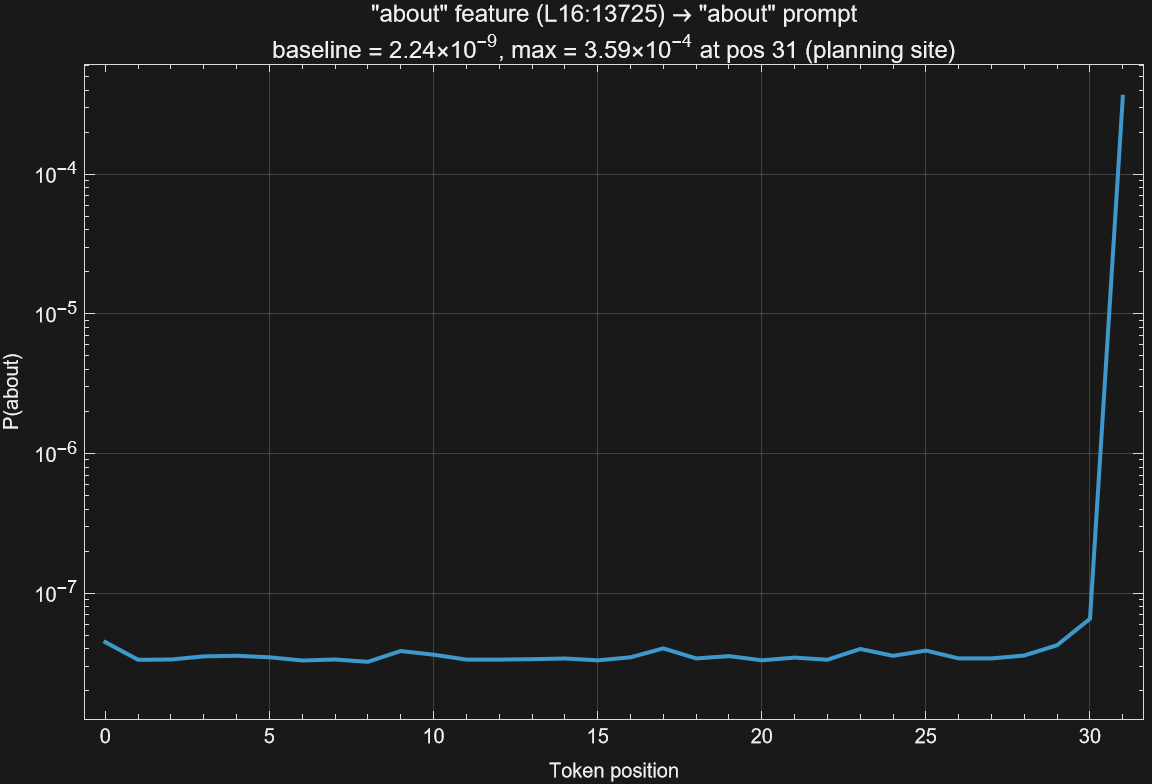
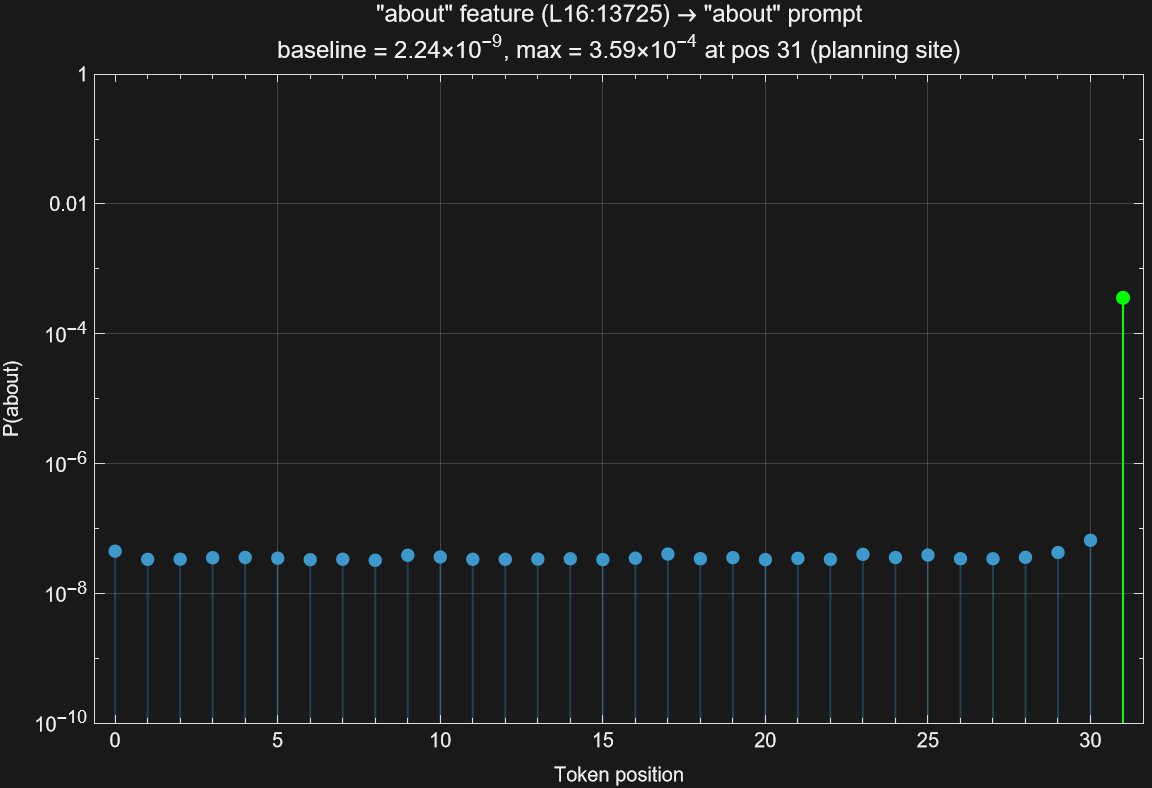
polish: version bump to v1.3.0 and documentation improvements
Bump Cargo.toml 1.2.0 → 1.3.0 with CHANGELOG entry.
README: add author line, etymology subtitle, motivation paragraph,
table of contents, CLT expansion on first use, architectural-property
observation, candle link in acknowledgments.
Docs: fix rendering (collapsed paragraphs), "line plot" → "bar chart",
clarify feature-prompt pair count. Update figures to lollipop plots
with green planning-site bar and shared log-scale range.

diff --git a/docs/planning-in-poems/README.md b/docs/planning-in-poems/README.md
@@ -1,7 +1,34 @@
 # Replicating "Planning in Poems" with Open Tools
 
+*Melomētis (μέλος + μῆτις) — "song's cunning intelligence"*
+
+**Author:** Eric Jacopin
+
+My background is AI Planning — hierarchical task networks, goal decomposition,
+the classical tradition. When Anthropic reported that Claude 3.5 Haiku performs
+internal "planning" during poem generation, the natural question from that field
+is: how far does the analogy go? Can we relate what an LLM does at the newline
+token to anything recognizable as planning in the classical sense? Answering
+that question requires having something reproducible to test. This project
+builds that test bench.
+
+---
+
+**Contents:**
+[1. The result](#1-the-result) |
+[2. Setup](#2-setup) |
+[3. The journey](#3-the-journey) |
+[4. How to reproduce](#4-how-to-reproduce) |
+[5. What we did not replicate](#5-what-we-did-not-replicate) |
+[6. File inventory](#6-file-inventory) |
+[7. Acknowledgments](#7-acknowledgments)
+
+---
+
 Anthropic reported that Claude 3.5 Haiku plans ahead when writing rhyming
-poetry: at the newline token between lines, CLT features for candidate rhyme
+poetry: at the newline token between lines,
+[Cross-Layer Transcoder](https://transformer-circuits.pub/2025/attribution-graphs/biology.html)
+(CLT) features for candidate rhyme
 words pre-activate before any token of the next line is generated. Suppressing
 the natural plan and injecting an alternative redirects the line ending.
 The strongest evidence is Figure 13 of
@@ -75,8 +102,20 @@ This is the same shape Anthropic showed for "green" injection in Claude 3.5
 Haiku. The model, the CLT, and the rhyme group are all different. The
 phenomenon is the same.
 
+The implication goes beyond replication. Anthropic's finding was demonstrated
+on a single proprietary model; one could reasonably attribute the planning
+behavior to their specific training pipeline. This work reproduces it in
+Gemma 2 2B — a model from a different organization, trained on different data,
+with a different alignment procedure, at a different scale, probed with a
+different (and 70x coarser) CLT. The two models share essentially one thing:
+the transformer architecture. This suggests that planning-site localization
+is not a training artifact but an **architectural property of
+attention-based models**.
+
 **Output:** `outputs/suppress_inject_sweep.json`
+
 **Script:** `cargo run --release --example suppress_inject_sweep`
+
 **Analysis:** `cargo run --release --example analyze_suppress_inject -- --input outputs/suppress_inject_sweep.json`
 
 ---
@@ -182,8 +221,8 @@ designed at this granularity.
 ### Version A: planning features are position-specific
 
 Measured feature activation at every token position (not just the last).
-All four candidates (the features `go`, `out`, `ou` tested across four
-prompts) show activation exclusively at the planning site, with exactly 0.000
+Four feature-prompt pairs (so→`go`, about→`out`, shout→`out`, who→`ou`)
+show activation exclusively at the planning site, with exactly 0.000
 at all other positions.
 
 **Output:** `outputs/position_sweep.json`
@@ -393,5 +432,5 @@ the phenomenon.
   ([Biology of a Large Language Model](https://transformer-circuits.pub/2025/attribution-graphs/biology.html#dives-poems),
   Lindsey et al., 2025)
 - **mntss** -- the [426K open-weights CLT](https://huggingface.co/mntss/clt-gemma-2-2b-426k) for Gemma 2 2B
-- **HuggingFace candle** -- the Rust ML framework
+- **HuggingFace [candle](https://github.com/huggingface/candle)** -- the Rust ML framework
 - **Google DeepMind** -- the [Gemma 2 2B](https://huggingface.co/google/gemma-2-2b) model

diff --git a/CHANGELOG.md b/CHANGELOG.md
@@ -5,6 +5,49 @@ All notable changes to this project will be documented in this file.
 The format is based on [Keep a Changelog](https://keepachangelog.com/en/1.1.0/),
 and this project adheres to [Semantic Versioning](https://semver.org/spec/v2.0.0.html).
 
+## [1.3.0] — 2026-02-17
+
+### Added
+
+- **Gemma 2 2B backend** (`src/forward_gemma2.rs`, 1,570 lines): Gemma 2
+  architecture with softcapped attention, GQA, alternating local/global sliding
+  window, and per-layer activation capture. `PlipBackend` implementation with
+  all forward pass variants plus CLT injection hooks.
+- **Cross-Layer Transcoder infrastructure** (`src/clt.rs`, 1,640 lines): lazy
+  HuggingFace download, stream-and-free encoder loading, sparse activation
+  encoding with ReLU threshold, decoder vector extraction with micro-cache, and
+  `CltInjectionSpec` for steered generation. Validated against Python Circuit
+  Tracer reference: 90/90 top-10 features match (max relative error 1.2e-6).
+- **Poetry corpus** (`corpus/`): 780 samples (260 rhyming, 260 non-rhyming,
+  260 generation prompts) across 20 rhyme groups, generated from the CMU
+  Pronouncing Dictionary.
+- **13 new examples** covering the full replication pipeline: CLT inspection,
+  encoding, validation, logit-shift acceptance test, poetry corpus verification,
+  planning detection (layer scan), CLT steering (Methods 1--6), attention
+  steering, semantic category steering (6 modes), cross-mechanism evaluation,
+  multi-layer position sweep, suppress + inject (Figure 13), and offline
+  analysis.
+- **`docs/planning-in-poems/`**: four-part write-up replicating Anthropic's
+  Figure 13 from "On the Biology of a Large Language Model" (Lindsey et al.,
+  2025) using entirely open tools: Gemma 2 2B, mntss/clt-gemma-2-2b-426k
+  (426K features), Rust + candle, RTX 5060 Ti 16 GB. Core result: 48.3%
+  cross-group probability redirect at the planning site, ten-million-fold spike.
+
+### Changed
+
+- `ModelArchitecture` enum extended with `Gemma2` variant; detection for
+  `"gemma-2"`, `"gemma2"` (before generic `"gemma"` match).
+- `PlipBackend` trait extended with CLT-related methods: `clt_logit_shift`,
+  `generate_with_clt_injection`, `get_all_position_activations`,
+  `token_embedding` (all with default error implementations).
+- `PlipTokenizer::encode` changed from `encode(text, false)` to
+  `encode(text, true)` — adds special tokens (BOS for Gemma 2) as configured
+  in `tokenizer.json`.
+- `FullActivationCache` added to `src/cache.rs` for all-position activation
+  storage.
+- `CltInjectionSpec`, `CltLayerInjection`, `CltLogitShiftResult` added to
+  `src/intervention.rs`.
+
 ## [1.2.0] — 2026-02-10
 
 ### Added
@@ -182,6 +225,7 @@ Initial public release of PLIP-rs: **P**robing **L**anguage model
 - GitHub Actions CI (CPU build + clippy + tests).
 - Docker support for containerized GPU experiments.
 
+[1.3.0]: https://github.com/PCfVW/plip-rs/compare/v1.2.0...v1.3.0
 [1.2.0]: https://github.com/PCfVW/plip-rs/compare/v1.1.1...v1.2.0
 [1.1.1]: https://github.com/PCfVW/plip-rs/compare/v1.1.0...v1.1.1
 [1.1.0]: https://github.com/PCfVW/plip-rs/compare/v1.0.3...v1.1.0

diff --git a/docs/planning-in-poems/03-figure13-replication.md b/docs/planning-in-poems/03-figure13-replication.md
@@ -10,7 +10,7 @@ suppress + inject replication (Version D).
 
 Figure 13 of
 [On the Biology of a Large Language Model](https://transformer-circuits.pub/2025/attribution-graphs/biology.html#dives-poems)
-is a line plot: the x-axis sweeps across every token position in a line of
+is a bar chart: the x-axis sweeps across every token position in a line of
 poetry; the y-axis plots the probability of the injected target word. The
 result is a sharp spike at the newline token (the planning site) and
 near-zero probability everywhere else.

diff --git a/docs/planning-in-poems/01-detection.md b/docs/planning-in-poems/01-detection.md
@@ -1,7 +1,9 @@
 # 1. Detecting the Planning Signal
 
 **Model:** google/gemma-2-2b (2.6B parameters, base, BF16)
+
 **CLT:** mntss/clt-gemma-2-2b-426k (16,384 features x 26 layers)
+
 **Hardware:** RTX 5060 Ti 16 GB, CUDA 13.1
 
 This document covers the detection phase: establishing that Gemma 2 2B
